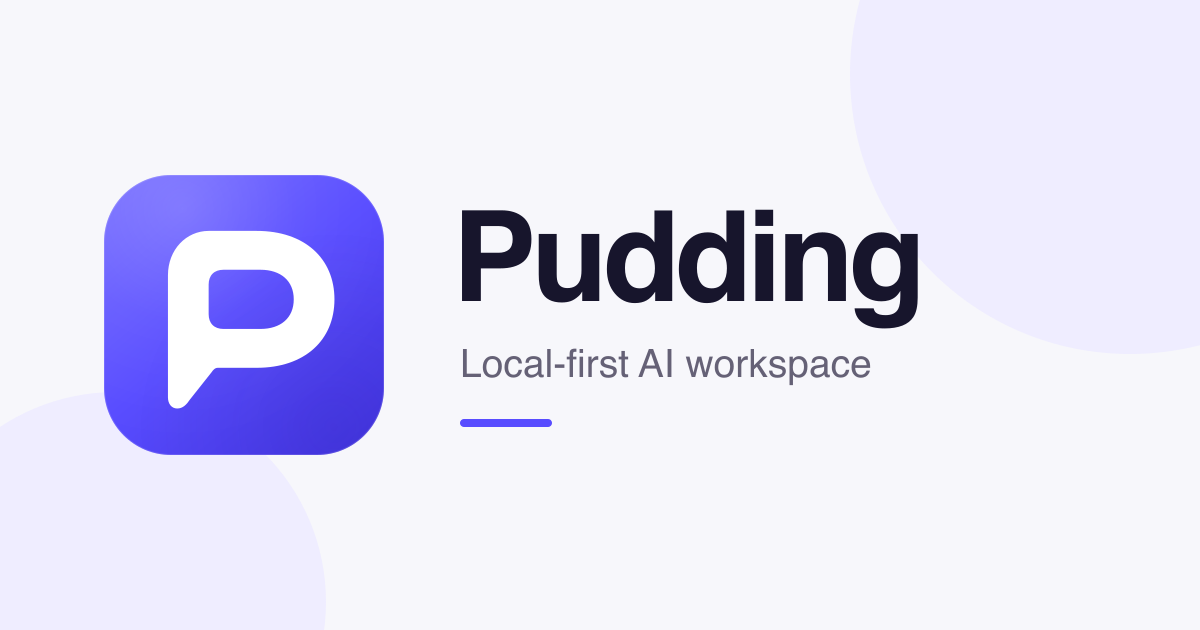
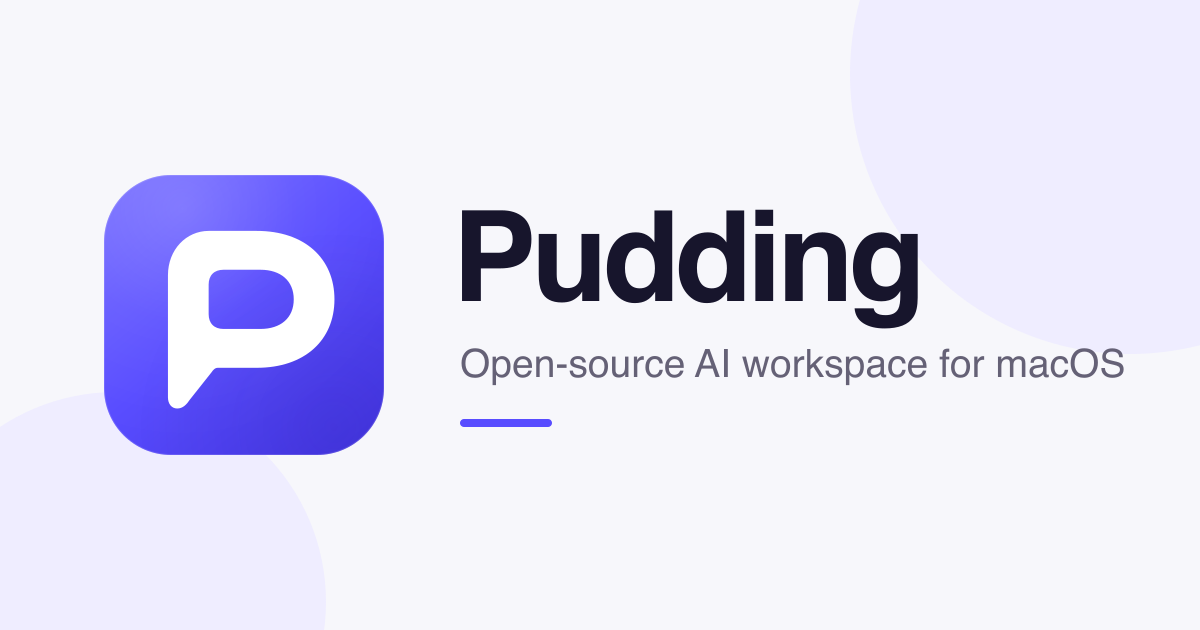
refactor: update branding to position Pudding as an open-source macOS AI workspace

Changed region(s): [[0.37, 0.5429, 0.9558, 0.6032]]

diff --git a/workers/oauth/src/site.ts b/workers/oauth/src/site.ts
@@ -1,7 +1,7 @@
 const googleSiteVerification = "fyB0-L8lIT4f1VbiEdZKmxgvBNOTK1hcKM-CZATx4y0"
 const supportEmail = "yangglive@gmail.com"
 const downloadURL = "https://github.com/teatak/pudding/releases/latest"
-const repositoryURL = "https://github.com/teatak/pudding"
+const repositoryURL = "https://github.com/teatak/pudding-core"
 
 type PageOptions = {
   title: string
@@ -36,20 +36,20 @@ function homePage(origin: string): PageOptions {
   return {
     title: "Pudding",
     description:
-      "Pudding is a local-first desktop AI workspace for research, writing, coding, and connected work.",
+      "Pudding is an open-source AI workspace for macOS that brings chat, browser, terminal, files, canvas, and apps together.",
     pathname: "/",
     bodyClass: "home",
     content: `
       <main>
         <section class="hero shell" aria-labelledby="hero-title" aria-describedby="hero-purpose">
           <div class="hero-copy reveal">
-            <div class="eyebrow"><span class="status-dot"></span> Local-first desktop AI</div>
+            <div class="eyebrow"><span class="status-dot"></span> Open-source AI workspace</div>
             <h1 id="hero-title">Pudding</h1>
-            <p class="hero-tagline">Your AI workspace, close to home.</p>
-            <p class="hero-lede" id="hero-purpose"><strong>Pudding is a local-first desktop AI application for macOS.</strong> It helps users research information, write documents, work with code, organize projects, and connect optional services such as Gmail and GitHub from one desktop workspace.</p>
+            <p class="hero-tagline">Your AI workspace for real work.</p>
+            <p class="hero-lede" id="hero-purpose"><strong>Pudding is an open-source AI workspace for macOS.</strong> Work across chat, browser, terminal, files, canvas, and apps without losing context.</p>
             <div class="hero-actions">
               <a class="button primary" href="${downloadURL}">Download for macOS <span aria-hidden="true">↗</span></a>
-              <a class="button secondary" href="${repositoryURL}">View on GitHub</a>
+              <a class="button secondary" href="${repositoryURL}">View source on GitHub</a>
             </div>
             <p class="hero-note"><span aria-hidden="true">●</span> Public homepage · No sign-in required</p>
           </div>
@@ -92,7 +92,7 @@ function homePage(origin: string): PageOptions {
 
         <section class="proof-strip" aria-label="Pudding principles">
           <div class="shell proof-grid">
-            <div><strong>Local-first</strong><span>Your app data lives on your computer.</span></div>
+            <div><strong>Data on your Mac</strong><span>Your workspace data lives on your computer.</span></div>
             <div><strong>Multi-session</strong><span>Keep independent tasks moving in parallel.</span></div>
             <div><strong>Your providers</strong><span>Choose the AI and services you connect.</span></div>
           </div>
@@ -174,7 +174,7 @@ function privacyPage(origin: string): PageOptions {
     eyebrow: "Your data, explained",
     heading: "Privacy Policy",
     intro:
-      "Pudding is a local-first AI workspace. This policy explains how the Pudding apps and the OAuth services at x-t.top and oauth.x-t.top handle information.",
+      "Pudding is an open-source AI workspace for macOS. This policy explains how the Pudding apps and the OAuth services at x-t.top and oauth.x-t.top handle information.",
     content: `
       <section id="scope"><h2>1. Scope</h2><p>This policy applies to Pudding for desktop and the public website and OAuth exchange service hosted at <a href="${origin}">${escapeHTML(origin)}</a>. Pudding does not require a website account.</p></section>
       <section id="information"><h2>2. Information Pudding handles</h2>
@@ -203,7 +203,7 @@ function termsPage(origin: string): PageOptions {
     intro:
       "These terms govern your use of Pudding and the supporting public services at x-t.top and oauth.x-t.top. By using them, you agree to these terms.",
     content: `
-      <section><h2>1. The service</h2><p>Pudding is a local-first AI workspace. Its public OAuth service helps Pudding apps connect user-authorized services such as Gmail and GitHub. Features may change as Pudding evolves.</p></section>
+      <section><h2>1. The service</h2><p>Pudding is an open-source AI workspace for macOS. Its public OAuth service helps Pudding apps connect user-authorized services such as Gmail and GitHub. Features may change as Pudding evolves.</p></section>
       <section><h2>2. Your accounts and permissions</h2><p>You may connect only accounts you own or are authorized to use. You are responsible for your device, connected accounts, chosen AI providers, and actions you approve through Pudding. You may disconnect a service at any time.</p></section>
       <section><h2>3. Acceptable use</h2><p>Do not use Pudding or its OAuth service to violate law, infringe rights, access accounts without authorization, distribute malware, interfere with the service, or bypass security and usage controls.</p></section>
       <section><h2>4. Third-party services</h2><p>Pudding can interact with services operated by others, including Google, GitHub, Cloudflare, and AI model providers you configure. Their own terms and privacy policies govern their services. We are not responsible for third-party availability or changes.</p></section>
@@ -300,7 +300,7 @@ function html(options: PageOptions): Response {
   <meta property="og:description" content="${escapeHTML(options.description)}">
   <meta property="og:url" content="${canonical}">
   <meta property="og:image" content="https://x-t.top/og.png">
-  <meta property="og:image:alt" content="Pudding — Local-first AI workspace">
+  <meta property="og:image:alt" content="Pudding — Open-source AI workspace for macOS">
   <meta name="twitter:card" content="summary_large_image">
   <meta name="twitter:title" content="${escapeHTML(options.title)}">
   <meta name="twitter:description" content="${escapeHTML(options.description)}">
@@ -338,7 +338,7 @@ function siteHeader(pathname: string): string {
 function siteFooter(): string {
   return `<footer class="site-footer">
     <div class="shell footer-grid">
-      <div class="footer-brand"><a class="brand" href="/"><img src="/logo.png" alt=""><span>Pudding</span></a><p>A local-first desktop AI workspace.</p></div>
+      <div class="footer-brand"><a class="brand" href="/"><img src="/logo.png" alt=""><span>Pudding</span></a><p>An open-source AI workspace for macOS.</p></div>
       <div class="footer-links"><div><b>Product</b><a href="/#product">What it does</a><a href="${downloadURL}">Download</a><a href="${repositoryURL}">GitHub</a></div><div><b>Trust</b><a href="/privacy">Privacy</a><a href="/terms">Terms</a><a href="/data-deletion">Data deletion</a></div><div><b>Help</b><a href="/support">Support</a><a href="mailto:${supportEmail}">Contact</a></div></div>
     </div>
     <div class="shell footer-bottom"><span>© 2026 Pudding</span><span>Designed for work that stays yours.</span></div>

diff --git a/web/src/i18n/index.ts b/web/src/i18n/index.ts
@@ -957,7 +957,7 @@ const zh: Messages = {
   "settings.group.capabilities": "能力",
   "settings.group.system": "系统",
   "settings.loadFailed": "设置加载失败，请刷新重试。",
-  "settings.about.localFirst": "本地优先，支持多对话并行。",
+  "settings.about.localFirst": "开源，支持多对话并行。",
   "settings.providerPresets": "供应商预设",
   "settings.providers": "模型配置",
   "settings.section.usage": "使用统计",
@@ -2576,7 +2576,7 @@ const zhTW: Messages = {
   "settings.group.capabilities": "能力",
   "settings.group.system": "系統",
   "settings.loadFailed": "設定載入失敗，請重新整理後重試。",
-  "settings.about.localFirst": "本地優先，支援多對話並行。",
+  "settings.about.localFirst": "開源，支援多對話並行。",
   "settings.providerPresets": "供應商預設",
   "settings.providers": "模型設定",
   "settings.section.usage": "使用統計",
@@ -4195,7 +4195,7 @@ const en: Messages = {
   "settings.group.capabilities": "Capabilities",
   "settings.group.system": "System",
   "settings.loadFailed": "Settings failed to load. Refresh and retry.",
-  "settings.about.localFirst": "Local-first with parallel conversations.",
+  "settings.about.localFirst": "Open source, with parallel conversations.",
   "settings.providerPresets": "Provider presets",
   "settings.providers": "Model configurations",
   "settings.section.usage": "Usage",
